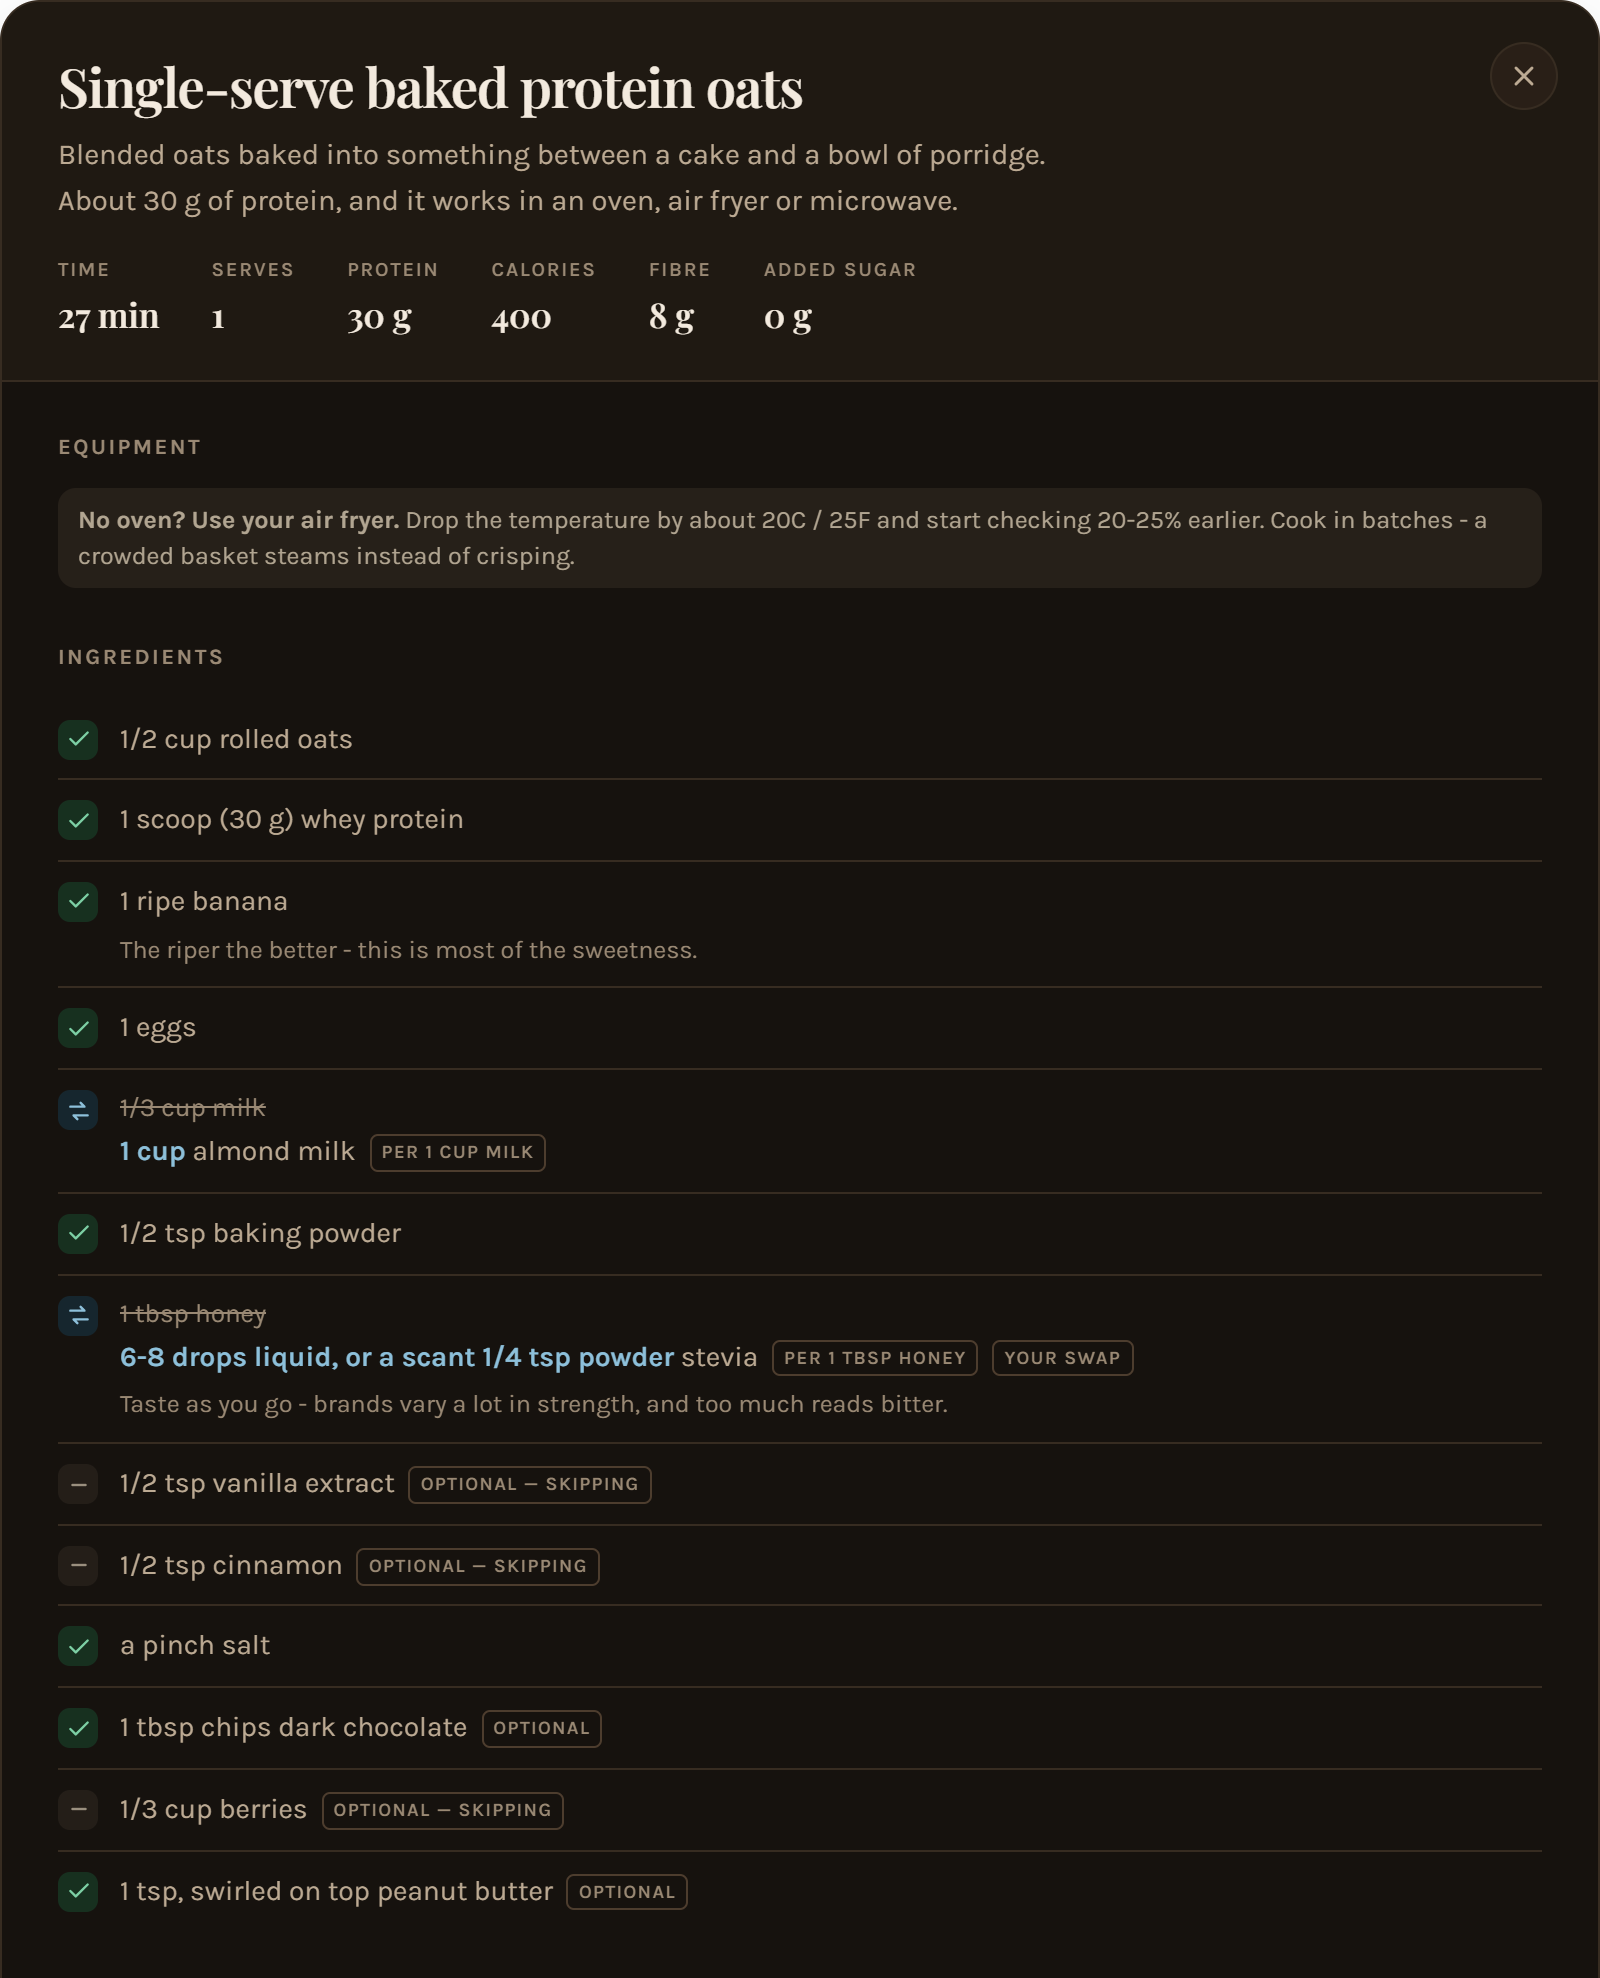
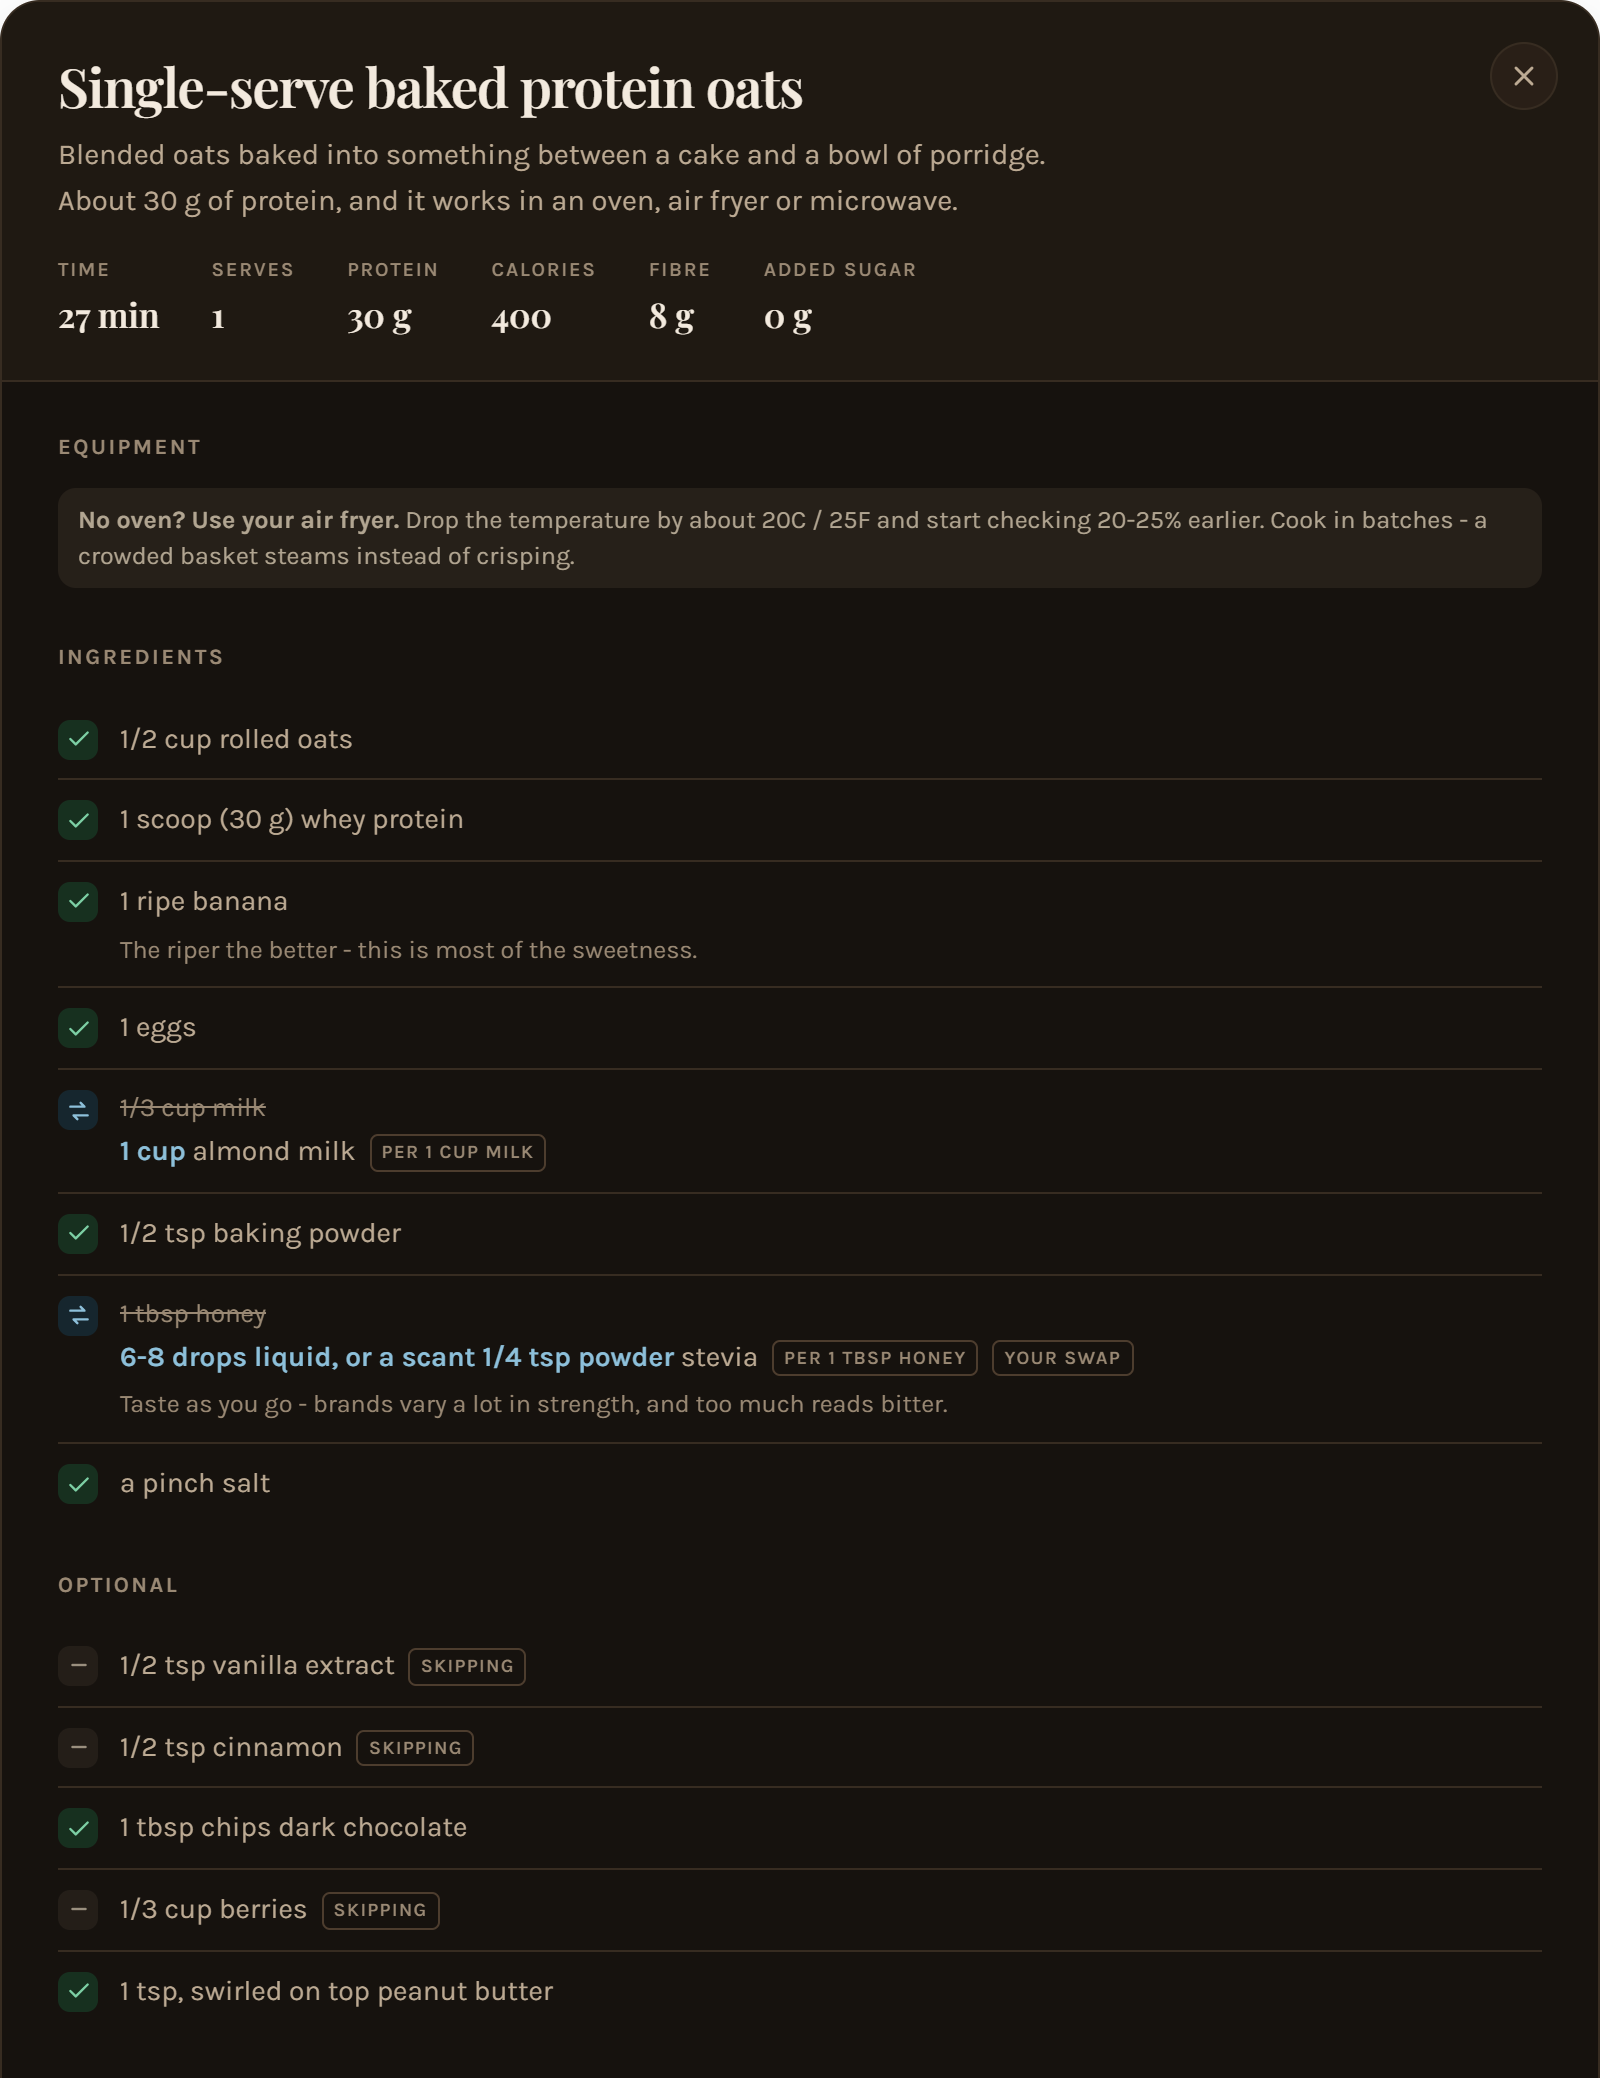
List optional ingredients under their own heading; add cheesecake flavours
Optional lines - garnishes, toppings and now flavour extras - sit apart
under an Optional heading at the foot of the ingredients. Membership is
decided by the flag alone and the recipe's own order is kept, so a recipe
looks the same in every kitchen. Inside the section the per-row
"optional" tag is dropped and skipped rows just say "skipping".

The cheesecake gets three optional flavours, with the amount in qty and
the timing in the note: 1 1/2 tbsp cacao whisked in before the egg, 50 g
blueberries on top or baked in, and 1-2 tbsp sugar-free strawberry syrup
drizzled on after chilling. Optional lines are never swapped, so those
notes always show.

Adds sugar_free_strawberry_syrup to the registry. SCHEMA.md, CLAUDE.md
and the README describe the section. The README recipe pictures are
regenerated; the other six came out pixel-identical and are unchanged.

diff --git a/src/components/RecipeDetail.tsx b/src/components/RecipeDetail.tsx
@@ -10,7 +10,7 @@ const TICK = {
   skip: IconSkip,
 } as const
 
-function IngredientRow({ line }: { line: MatchedLine }) {
+function IngredientRow({ line, inExtras = false }: { line: MatchedLine; inExtras?: boolean }) {
   const sub = line.substitution
   const Tick = TICK[line.status]
   return (
@@ -46,13 +46,16 @@ function IngredientRow({ line }: { line: MatchedLine }) {
               <span className="qty">
                 {ingredientLineText(line.ingredient.qty, line.ingredient.id)}
               </span>
-              {line.status === 'skip' && <span className="tag">optional — skipping</span>}
+              {/* Under the Optional heading, "optional" on every row is just noise. */}
+              {line.status === 'skip' && (
+                <span className="tag">{inExtras ? 'skipping' : 'optional — skipping'}</span>
+              )}
               {line.status === 'missing' && (
                 <span className="tag">
                   {line.blockedByAvoid ? 'on your avoid list' : 'missing'}
                 </span>
               )}
-              {line.status === 'have' && line.ingredient.optional && (
+              {line.status === 'have' && line.ingredient.optional && !inExtras && (
                 <span className="tag">optional</span>
               )}
             </div>
@@ -62,6 +65,23 @@ function IngredientRow({ line }: { line: MatchedLine }) {
       </div>
     </li>
   )
+}
+
+/**
+ * Which lines are listed under the Optional heading at the foot of the
+ * ingredients, and which stay in the main list above it. Optional lines are
+ * never swapped, so a line in that section always shows its own note - which
+ * is where a flavour extra says how much to add and when.
+ *
+ * Decided by the flag alone, not by what is in the kitchen, so a recipe keeps
+ * the same shape whatever you have: ticking blueberries must not lift a
+ * flavour extra up into the base recipe. `filter` keeps the recipe's order.
+ */
+function splitOptional(lines: MatchedLine[]): { main: MatchedLine[]; extras: MatchedLine[] } {
+  return {
+    main: lines.filter((line) => !line.ingredient.optional),
+    extras: lines.filter((line) => line.ingredient.optional),
+  }
 }
 
 interface Props {
@@ -86,6 +106,7 @@ export function RecipeDetail({ match, onClose }: Props) {
   }, [onClose])
 
   const deviceNotes = equipment.filter((e) => !e.have)
+  const { main, extras } = splitOptional(lines)
 
   return (
     <div className="scrim" onClick={onClose}>
@@ -165,10 +186,26 @@ export function RecipeDetail({ match, onClose }: Props) {
           <div className="block">
             <h3>Ingredients</h3>
             <ul className="ing-list">
-              {lines.map((line) => (
+              {main.map((line) => (
                 <IngredientRow key={line.ingredient.id + line.ingredient.qty} line={line} />
               ))}
             </ul>
+            {/* Inside the Ingredients block, not a block of its own: the README's
+                recipe picture is cropped at the bottom of this block. */}
+            {extras.length > 0 && (
+              <>
+                <h4>Optional</h4>
+                <ul className="ing-list">
+                  {extras.map((line) => (
+                    <IngredientRow
+                      key={line.ingredient.id + line.ingredient.qty}
+                      line={line}
+                      inExtras
+                    />
+                  ))}
+                </ul>
+              </>
+            )}
             {missing.length > 0 && (
               <p className="hint" style={{ marginTop: 12 }}>
                 Shopping list: {missing.map((m) => m.name.toLowerCase()).join(', ')}

diff --git a/src/styles.css b/src/styles.css
@@ -810,7 +810,8 @@ input { font: inherit; }
 
 .sheet-body { padding: 24px 28px 32px; display: flex; flex-direction: column; gap: 26px; }
 
-.block h3 {
+.block h3,
+.block h4 {
   margin: 0 0 12px;
   font-size: 11px;
   font-weight: 700;
@@ -818,6 +819,8 @@ input { font: inherit; }
   text-transform: uppercase;
   color: var(--text-faint);
 }
+/* The Optional list at the foot of the ingredients. */
+.block h4 { margin-top: 22px; }
 
 .ing-list { list-style: none; margin: 0; padding: 0; display: flex; flex-direction: column; }
 

diff --git a/README.md b/README.md
@@ -97,12 +97,12 @@ Sort any of them by **Best match**, **Most protein** or **Quickest**.
 
 ### 3. Open a recipe
 
-The ingredient list is rewritten for your kitchen. What you do not have is struck out with the stand-in and its amount underneath, a missing device comes with the adjustment for the one you do have, and anything still missing becomes a shopping list.
+The ingredient list is rewritten for your kitchen. What you do not have is struck out with the stand-in and its amount underneath, a missing device comes with the adjustment for the one you do have, and anything still missing becomes a shopping list. Garnishes and optional extras, like a chocolate or berry version of a plain dessert, are listed apart under their own heading at the foot of the list.
 
 <p align="center">
   <picture>
     <source media="(prefers-color-scheme: dark)" srcset="docs/images/recipe-dark.png">
-    <img src="docs/images/recipe-light.png" width="640" alt="Single-serve baked protein oats, opened. No oven, so: use your air fryer, dropping the temperature by about 20C. 1/3 cup milk is struck out in favour of almond milk. 1 tbsp honey is struck out in favour of 6-8 drops of liquid stevia, tagged your swap. Vanilla, cinnamon and berries are marked optional, skipping.">
+    <img src="docs/images/recipe-light.png" width="640" alt="Single-serve baked protein oats, opened. No oven, so: use your air fryer, dropping the temperature by about 20C. 1/3 cup milk is struck out in favour of almond milk. 1 tbsp honey is struck out in favour of 6-8 drops of liquid stevia, tagged your swap. Under Optional at the foot of the list, the chocolate chips and peanut butter are ticked, and vanilla, cinnamon and berries are skipping.">
   </picture>
 </p>
 
@@ -276,7 +276,7 @@ Any ingredient line in a recipe can carry one of them:
 | --- | --- | --- |
 | `core: true` | The recipe does not work without it | Blocked, unless a like-for-like swap is in your kitchen |
 | <code>sub_group:&nbsp;"none"</code> | The dish *is* this ingredient - paneer in paneer bhurji | Never swapped, not even for a close match |
-| `optional: true` | A garnish or a nice-to-have | Left out, never swapped |
+| `optional: true` | A garnish, a nice-to-have or a flavour extra, listed apart under Optional | Left out, never swapped |
 | no flag | Needed, but a stand-in will do | Swapped if anything fits; otherwise the recipe drops a shelf |
 
 ### The swap table knows what an ingredient is for

diff --git a/CLAUDE.md b/CLAUDE.md
@@ -65,7 +65,11 @@ Getting these right matters more than anything else in the recipe file.
   one. Without this the engine will cheerfully offer chicken thigh for the paneer
   in paneer bhurji, which is a different dish.
 - **`optional: true`** — a garnish or a nice-to-have. Missing costs nothing and
-  is never substituted.
+  is never substituted. Also how to add a flavour extra (a chocolate or berry
+  version of a plain dessert): the app lists optional lines under their own
+  Optional heading, and because they are never swapped, the `note` always
+  shows. Put the amount in `qty`; say when it goes in and what it adds in the
+  note. The cheesecake is the worked example.
 
 Rule of thumb: if the ingredient is in the title, it is `sub_group: "none"`.
 If the recipe collapses without it but a close cousin would do, it is `core`.

diff --git a/SCHEMA.md b/SCHEMA.md
@@ -84,6 +84,13 @@ build time, so adding a file is all it takes — there is no index.
 in paneer bhurji, besan in besan chilla, dates in date balls. Without it the
 engine will offer a technically-valid swap that produces a different dish.
 
+`optional: true` lines are listed apart, under an **Optional** heading at the
+foot of the ingredients, in recipe order whether or not you have them. That
+makes them the place for flavour extras as well as garnishes - a chocolate or
+berry version of a plain dessert. Put the amount in `qty`, and say in the
+`note` when it goes in and what it adds. An optional line is never swapped, so
+its note always shows; a swapped line's note does not.
+
 ### `function`
 
 What the ingredient is doing, so the engine can judge whether a stand-in is a
